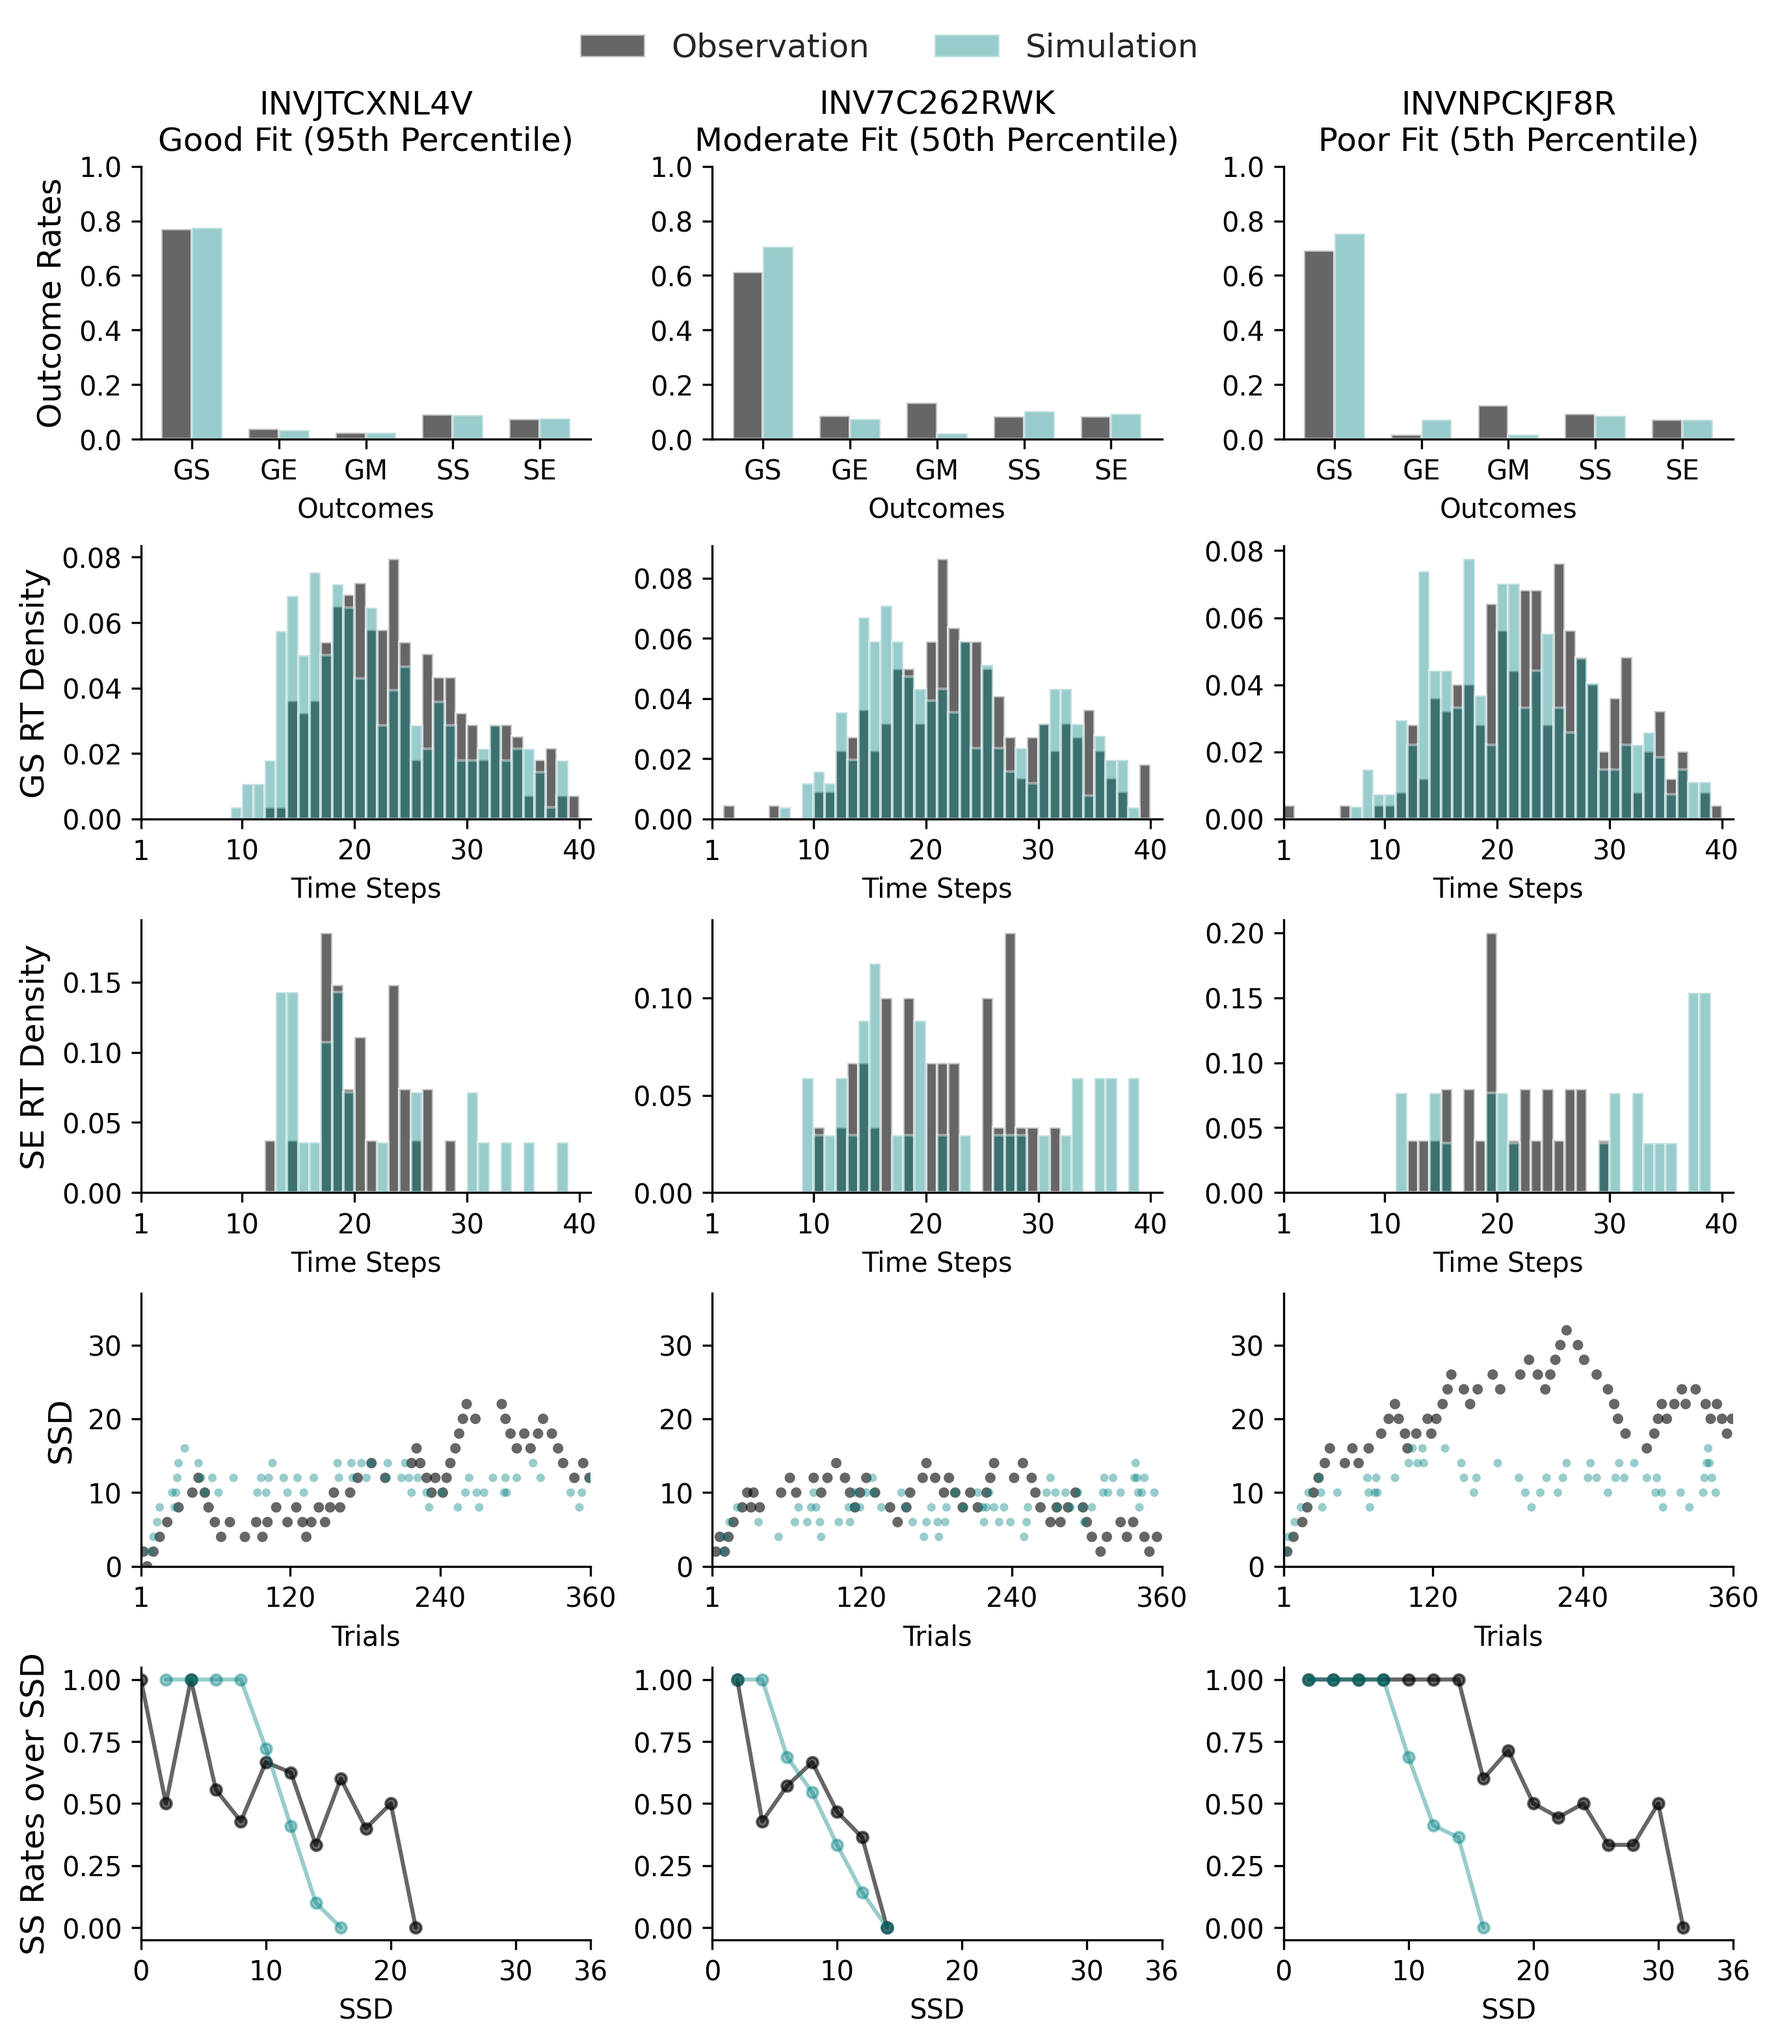
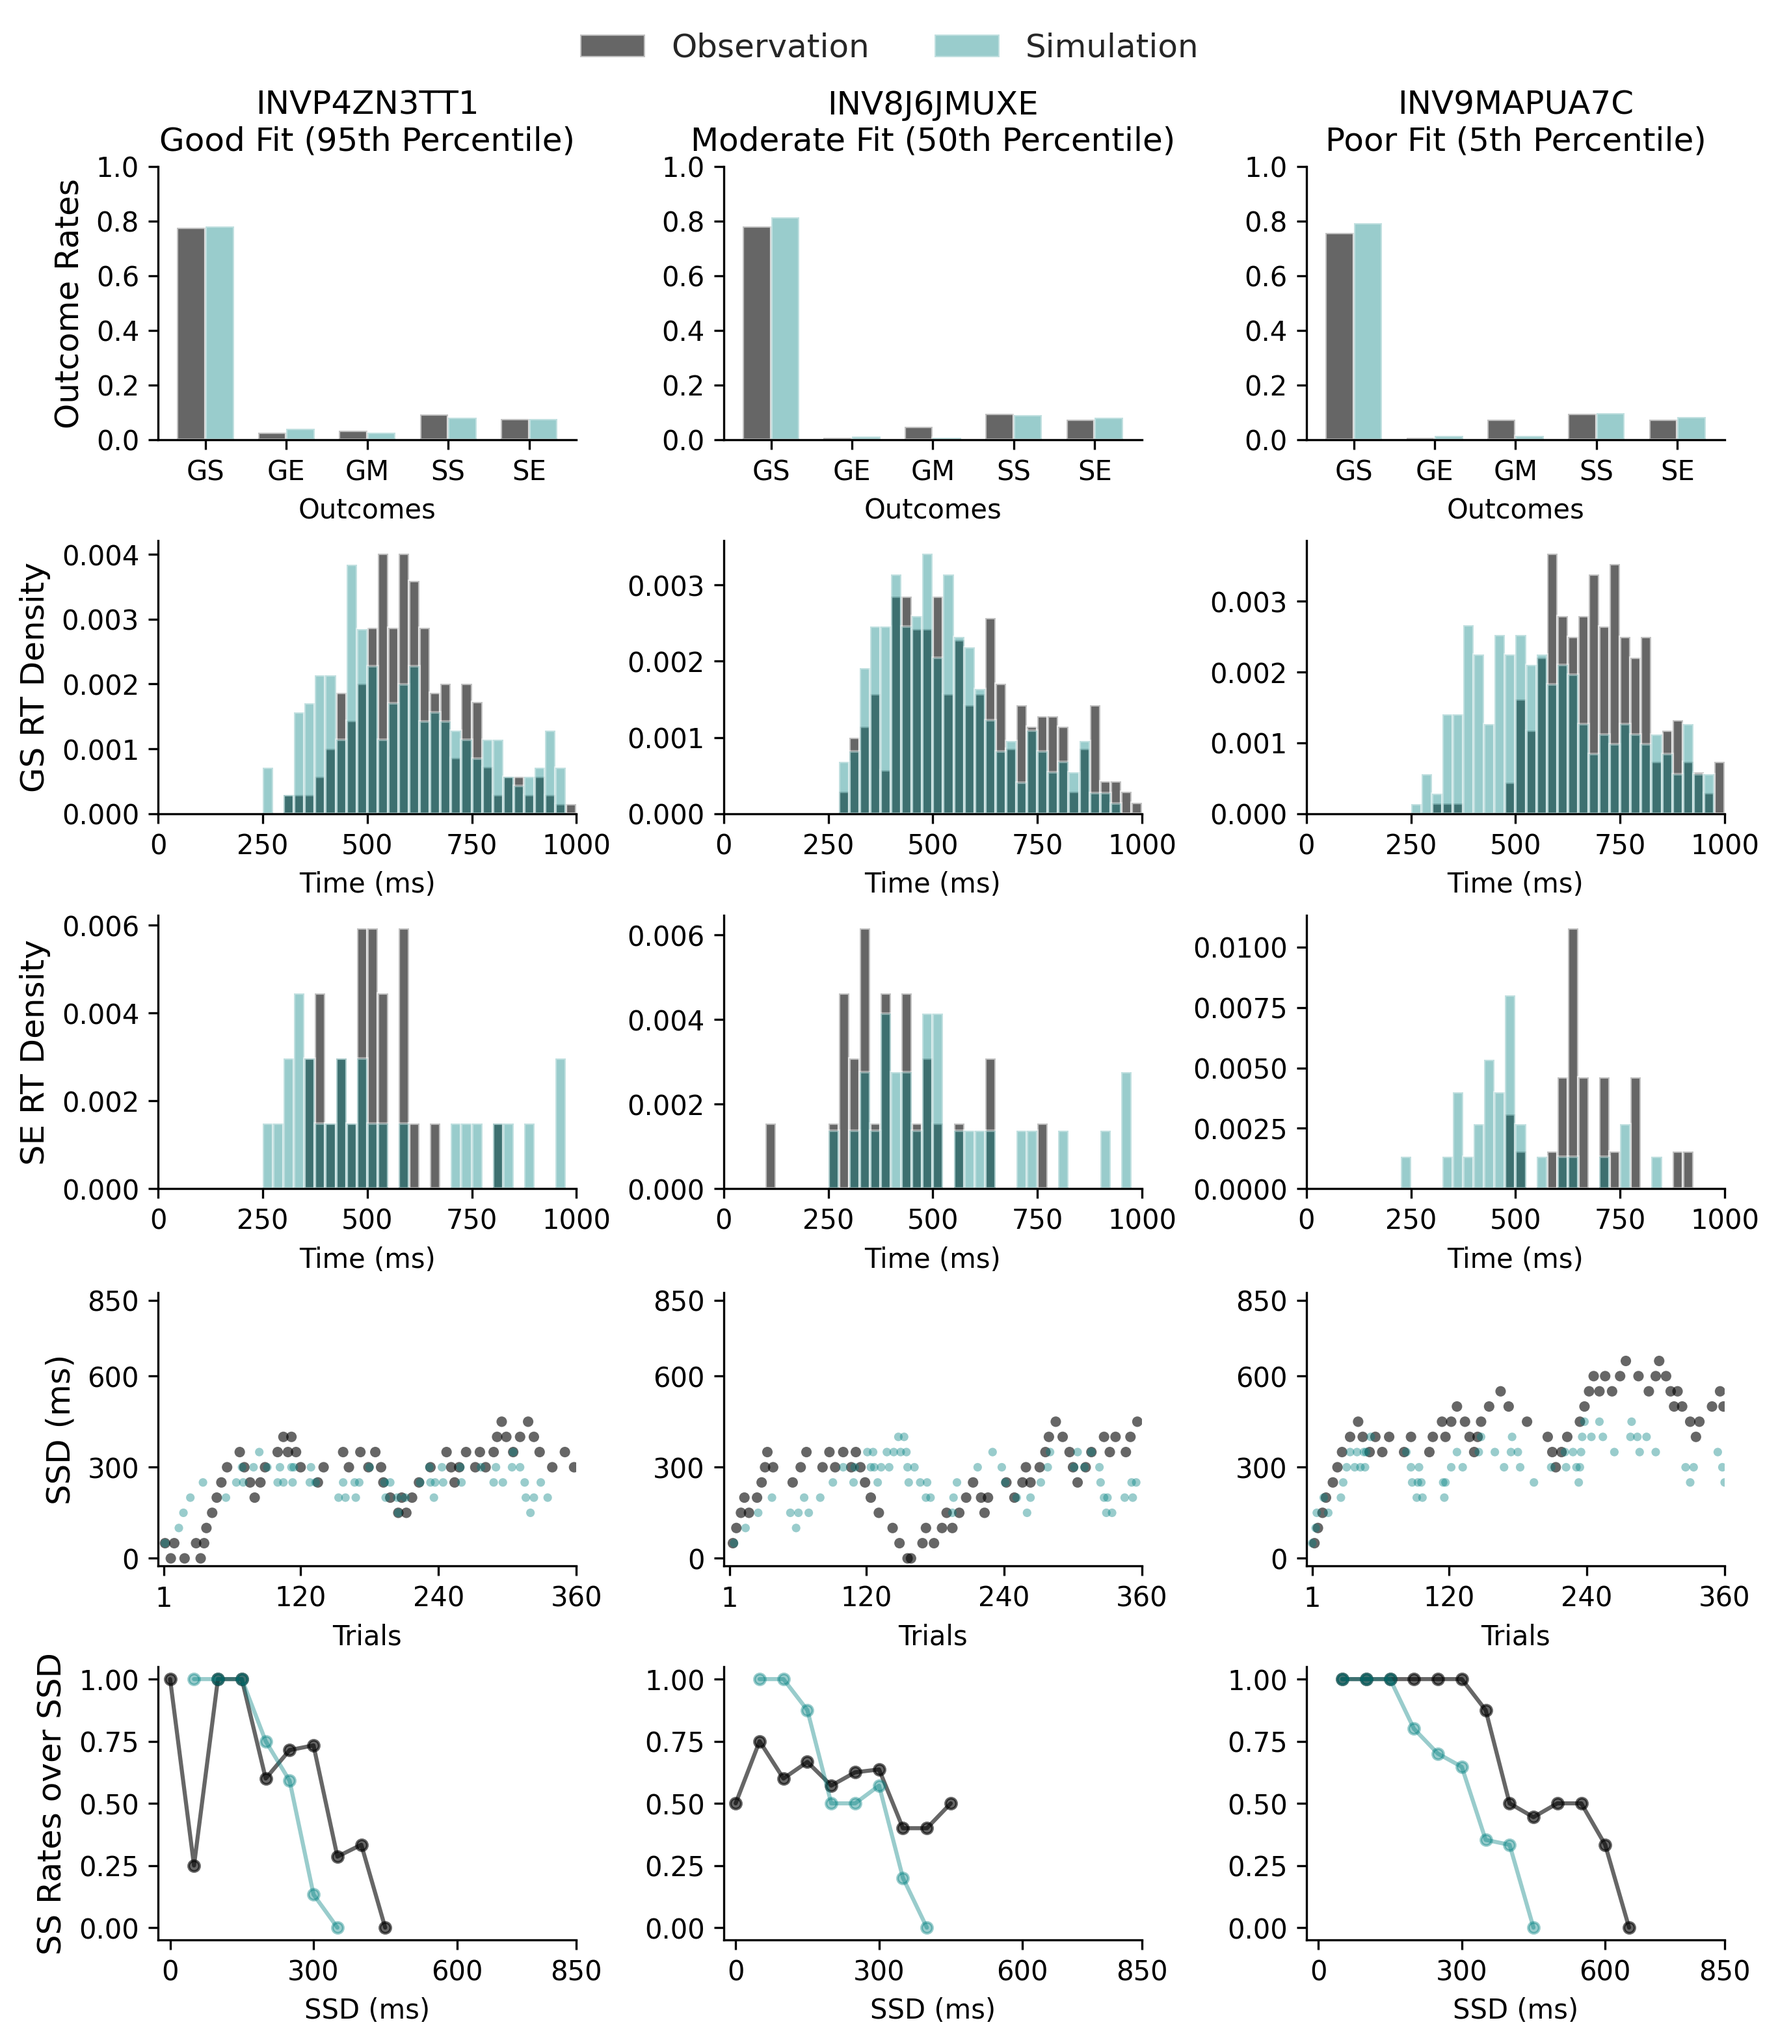
up

diff --git a/analysis/ppc_ana.py b/analysis/ppc_ana.py
@@ -176,64 +176,70 @@ def plot_model_fit(subjects, raw_data_dir, params_file, output_path):
         if col_idx == 0: ax.set_ylabel("Outcome Rates", fontsize=12)
         _clean_spines(ax)
 
-        # Row 1: Go Success RT (Histogram)
+        # Row 1: Go Success RT (Histogram) -> CONVERT TO MS
         ax = axs[1, col_idx]
-        bins = np.linspace(1, 41, 41)
-        ax.hist(df_obs[df_obs['result']=='GS']['rt'], bins=bins, density=True, 
+        
+        bins_ms = np.linspace(0, 1000, 41) 
+        step_size_ms = 25  # Each time step is 25 ms
+        ax.hist(df_obs[df_obs['result']=='GS']['rt'] * step_size_ms, bins=bins_ms, density=True, 
                 alpha=ALPHA_OBS, label='Obs', color=COLOR_OBS)
-        ax.hist(df_sim[df_sim['result']=='GS']['rt'], bins=bins, density=True, 
+        ax.hist(df_sim[df_sim['result']=='GS']['rt'] * step_size_ms, bins=bins_ms, density=True, 
                 alpha=ALPHA_SIM, label='Sim', color=COLOR_SIM)
-        ax.set_xlim(1, 41)
-        ax.set_xticks([1, 10, 20, 30, 40])
-        ax.set_xlabel("Time Steps", fontsize=10)
+        
+        ax.set_xlim(0, 1000)
+        ax.set_xticks([0, 250, 500, 750, 1000]) # Nice round numbers
+        ax.set_xlabel("Time (ms)", fontsize=10)
         if col_idx == 0: ax.set_ylabel("GS RT Density", fontsize=12)
         _clean_spines(ax)
 
-        # Row 2: Stop Error RT (Histogram)
+        # Row 2: Stop Error RT (Histogram) -> CONVERT TO MS
         ax = axs[2, col_idx]
-        ax.hist(df_obs[df_obs['result']=='SE']['rt'], bins=bins, density=True, 
+        ax.hist(df_obs[df_obs['result']=='SE']['rt'] * step_size_ms, bins=bins_ms, density=True, 
                 alpha=ALPHA_OBS, label='Obs', color=COLOR_OBS)
-        ax.hist(df_sim[df_sim['result']=='SE']['rt'], bins=bins, density=True, 
+        ax.hist(df_sim[df_sim['result']=='SE']['rt'] * step_size_ms, bins=bins_ms, density=True, 
                 alpha=ALPHA_SIM, label='Sim', color=COLOR_SIM)
-        ax.set_xlim(1, 41)
-        ax.set_xticks([1, 10, 20, 30, 40])
-        ax.set_xlabel("Time Steps", fontsize=10)
+        
+        ax.set_xlim(0, 1000)
+        ax.set_xticks([0, 250, 500, 750, 1000])
+        ax.set_xlabel("Time (ms)", fontsize=10)
         if col_idx == 0: ax.set_ylabel("SE RT Density", fontsize=12)
         _clean_spines(ax)
 
-        # Row 3: SSD Scatter
+        # Row 3: SSD Scatter -> CONVERT Y-AXIS TO MS
         ax = axs[3, col_idx]
-        # Plot Obs
-        ax.scatter(df_obs.index + 1, df_obs['ssd'], label='Obs', 
+        ax.scatter(df_obs.index + 1, df_obs['ssd'] * step_size_ms, label='Obs', 
                    color=COLOR_OBS, s=15, alpha=ALPHA_OBS, marker='o', edgecolors='none')
-        # Plot Sim (Overlay)
+        
         sim_trials = len(df_sim) // n_repeat
         current_len = min(sim_trials, len(df_obs))
         ssd_segment = df_sim.iloc[:current_len]['ssd']
-        ax.scatter(range(1, current_len + 1), ssd_segment, label='Sim', 
+        
+        ax.scatter(range(1, current_len + 1), ssd_segment * step_size_ms, label='Sim', 
                    color=COLOR_SIM, s=10, alpha=ALPHA_SIM, marker='o', edgecolors='none')
 
-        ax.set_xlim(1, 360)
+        ax.set_xlim(1 - 5, 360)
         ax.set_xticks([1, 120, 240, 360])
         ax.set_xlabel("Trials", fontsize=10)
-        if col_idx == 0: ax.set_ylabel("SSD", fontsize=12)
+        
+        ax.set_ylim(- 25, 35 * step_size_ms) # [2,34] time steps
+        ax.set_yticks([0, 300, 600, 850])
+        if col_idx == 0: ax.set_ylabel("SSD (ms)", fontsize=12)
         _clean_spines(ax)
-        ax.set_ylim(0, 37)
 
-        # Row 4: Inhibition Function
+        # Row 4: Inhibition Function -> CONVERT X-AXIS TO MS
         ax = axs[4, col_idx]
         prob_obs = _get_prob_ss(df_obs)
         prob_sim = _get_prob_ss(df_sim)
         
-        ax.plot(prob_obs.index, prob_obs.values, 'o-', label='Obs', 
+        ax.plot(prob_obs.index * step_size_ms, prob_obs.values, 'o-', label='Obs', 
                 color=COLOR_OBS, alpha=ALPHA_OBS, markersize=4)
-        ax.plot(prob_sim.index, prob_sim.values, 'o-', label='Sim', 
+        ax.plot(prob_sim.index * step_size_ms, prob_sim.values, 'o-', label='Sim', 
                 color=COLOR_SIM, alpha=ALPHA_SIM, markersize=4)
         
         ax.set_ylim(-0.05, 1.05)
-        ax.set_xlim(0, 36)
-        ax.set_xticks([0, 10, 20, 30, 36])
-        ax.set_xlabel("SSD")
+        ax.set_xlim(-25, 34 * step_size_ms)
+        ax.set_xticks([0, 300, 600, 850])
+        ax.set_xlabel("SSD (ms)")
         if col_idx == 0: ax.set_ylabel("SS Rates over SSD", fontsize=12)
         _clean_spines(ax)
 

diff --git a/analysis/ppc_ana_v2.py b/analysis/ppc_ana_v2.py
@@ -231,8 +231,8 @@ def plot_model_fit(subjects, raw_data_dir, params_file, output_path):
                 color=COLOR_SIM, alpha=ALPHA_SIM, markersize=4)
         
         ax.set_ylim(-0.05, 1.05)
-        ax.set_xlim(0, 36)
-        ax.set_xticks([0, 10, 20, 30, 36])
+        ax.set_xlim(0, 34)
+        ax.set_xticks([0, 10, 20, 30, 34])
         ax.set_xlabel("SSD")
         if col_idx == 0: ax.set_ylabel("SS Rates over SSD", fontsize=12)
         _clean_spines(ax)

diff --git a/core/simulation.py b/core/simulation.py
@@ -185,7 +185,7 @@ def simu_task(model):
                 ssd_step = 2
                 first_ssd = False
             elif last_stop_result == 'SS':
-                ssd_step = min(ssd_step + 2, 36)
+                ssd_step = min(ssd_step + 2, 34)
             elif last_stop_result == 'SE':
                 ssd_step = max(ssd_step - 2, 2)
             ssd = ssd_step

diff --git a/analysis/simu_ana.py b/analysis/simu_ana.py
@@ -91,6 +91,7 @@ def main():
 
     # 2. Initialize POMDP
     print("\nInitializing POMDP Model...")
+
     pomdp = POMDP(**params)
     pomdp.value_iteration_tensor() 
 
